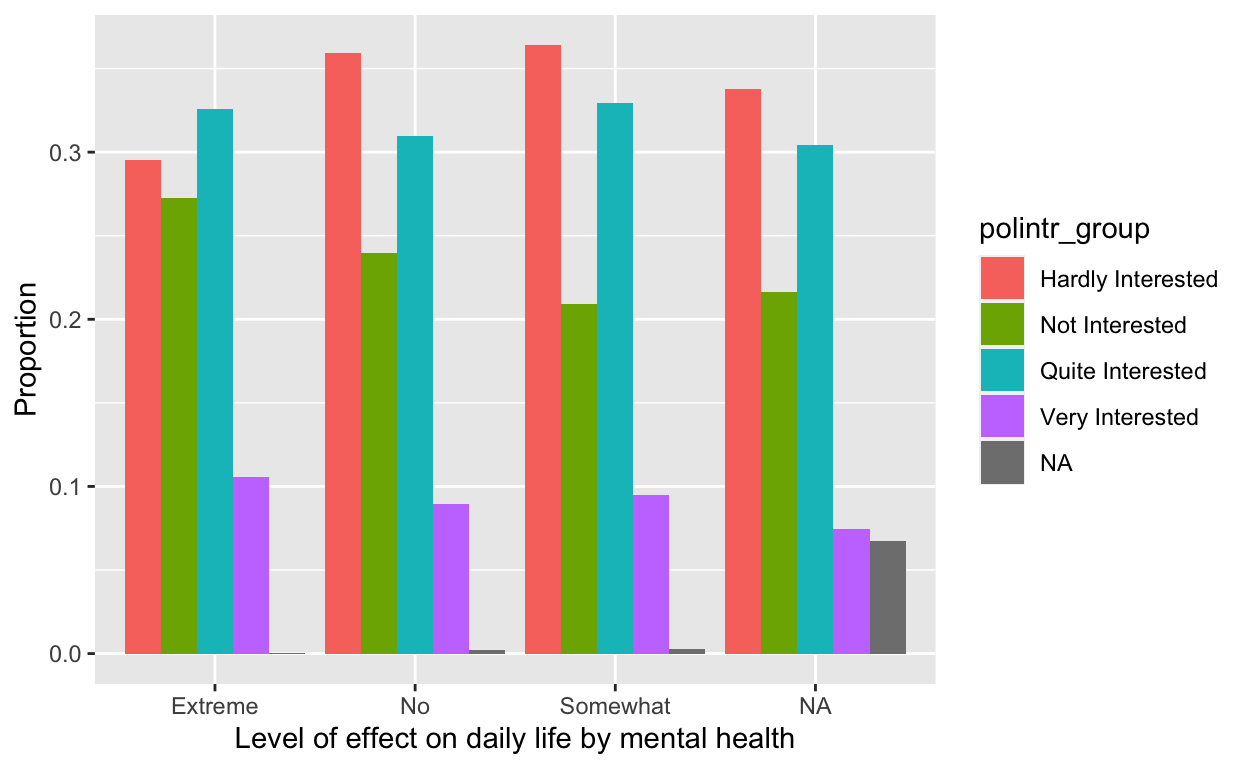
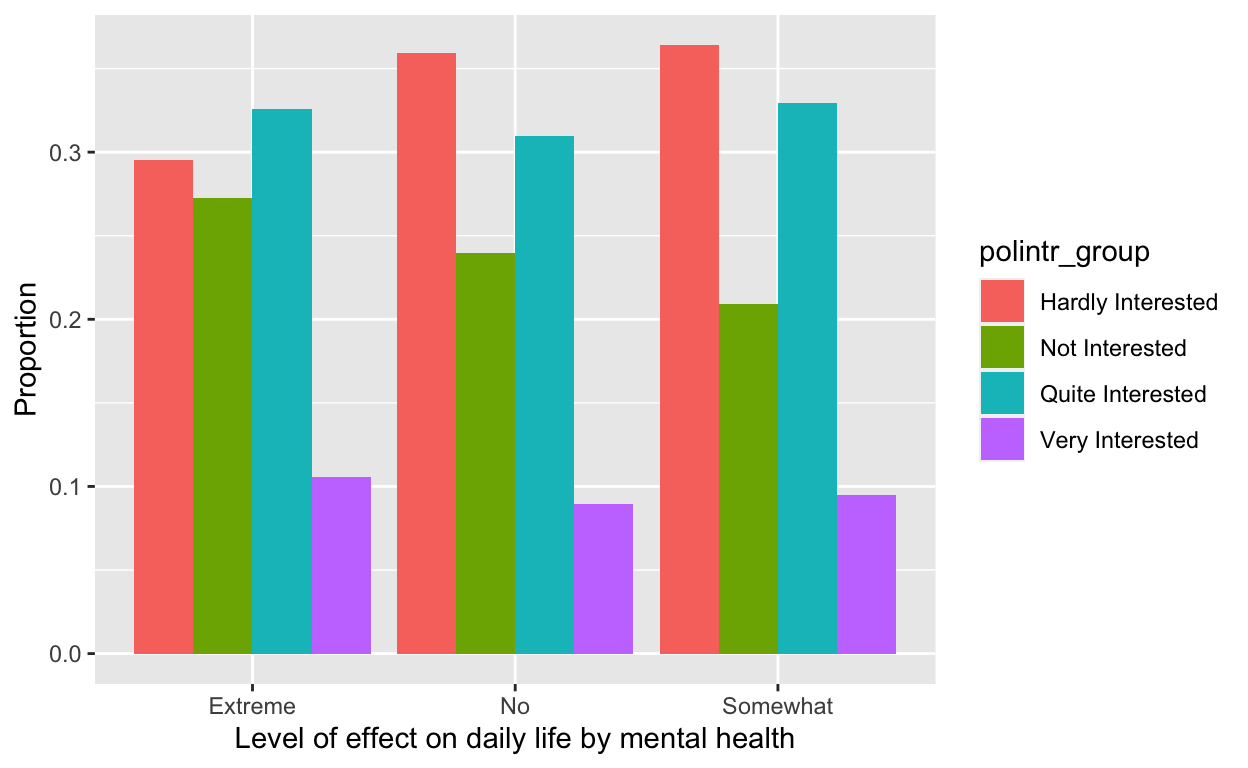
milestone 4

diff --git a/index.html b/index.html
@@ -1521,7 +1521,7 @@ code span.wa { color: #5e5e5e; font-style: italic; } /* Warning */
 <p>I am interested in exploring data related to the correlation between mental health and civic participation. It would be interesting to know how the prevalence of mental disorders and accessibility of mental health treatment in a community relates to the community members’ levels of civic engagement. Some examples of civic engagement may include participation in local/state/federal voting, competitiveness of elections, protests, town meetings, and more. There have been many data scientists that look at the relationship between race, age, profession, income, and more with civic participation. There appears to be less research, however, for those with mental disorders.</p>
 <h2 id="milestone-2-proposal">Milestone 2 Proposal</h2>
 <p>Do increasingly negative mental health statuses among a community reduce civic engagement? A negative mental health status can include a lack of mental health treatment, high rates of mental illnesses, general unhappiness, how concerned one is with climate change, and more. When a person is feeling unhappy, anxious, or frustrated, they are less concerned about the community and the long term future as they are preoccupied with negative personal thoughts. Hence, they are less likely to be civically engaged and partake in activities such as voting, protesting, and more. I hypothesize that the general happiness levels of individuals are contagious in a community, resulting in a pattern of changed civic participation. My data comes from the European Social Survey round 10 data from 2020. I am still deciding on which explanatory variables to use as I am interested in the variables: stflife (how satisfied with life as a whole), stfhlth (state of health services), happy (how happy are you), and hlthhmp (hampered in daily activities due to mental problem). Most of these variables are on a scale of 1-10, thus we can calculate the center distribution of these numbers based on country to create categories. My outcome variables of interest are polintr(how interested in politics), vote (voted in last national election), sgnptit (signed petition in last 12 months), and more. There are quite a few relevant variables that showcase one’s civic engagement. Polintr is measured on a scale of 1-4, whereas vote and sgnptit are binary with 1 meaning yes and 2 meaning no. If I am able to observe that less people are interested in politics or less likely to vote/sign petitions in countries where general happiness and mental is lower, I will be able to support my hypothesis. There should be a positive, direct correlation between these variables.</p>
-<p>##Milestone 3</p>
+<p>##Milestone 3 Graph</p>
 <div class="layout-chunk" data-layout="l-body">
 <div class="sourceCode">
 <pre class="sourceCode r"><code class="sourceCode r"><span><span class='kw'><a href='https://rdrr.io/r/base/library.html'>library</a></span><span class='op'>(</span><span class='va'><a href='https://tidyverse.tidyverse.org'>tidyverse</a></span><span class='op'>)</span></span>
@@ -1542,7 +1542,8 @@ code span.wa { color: #5e5e5e; font-style: italic; } /* Warning */
 <span>    <span class='va'>hlthhmp</span> <span class='op'>==</span> <span class='fl'>3</span> <span class='op'>~</span> <span class='st'>"No"</span><span class='op'>)</span><span class='op'>)</span> <span class='op'>|&gt;</span> </span>
 <span>  <span class='fu'><a href='https://dplyr.tidyverse.org/reference/group_by.html'>group_by</a></span><span class='op'>(</span><span class='va'>hamper_group</span>, <span class='va'>polintr_group</span><span class='op'>)</span> <span class='op'>|&gt;</span></span>
 <span>  <span class='fu'><a href='https://dplyr.tidyverse.org/reference/summarise.html'>summarize</a></span><span class='op'>(</span>n <span class='op'>=</span> <span class='fu'><a href='https://dplyr.tidyverse.org/reference/context.html'>n</a></span><span class='op'>(</span><span class='op'>)</span><span class='op'>)</span> <span class='op'>|&gt;</span></span>
-<span>  <span class='fu'><a href='https://dplyr.tidyverse.org/reference/mutate.html'>mutate</a></span><span class='op'>(</span>prop <span class='op'>=</span> <span class='va'>n</span> <span class='op'>/</span> <span class='fu'><a href='https://rdrr.io/r/base/sum.html'>sum</a></span><span class='op'>(</span><span class='va'>n</span><span class='op'>)</span><span class='op'>)</span></span>
+<span>  <span class='fu'><a href='https://dplyr.tidyverse.org/reference/mutate.html'>mutate</a></span><span class='op'>(</span>prop <span class='op'>=</span> <span class='va'>n</span> <span class='op'>/</span> <span class='fu'><a href='https://rdrr.io/r/base/sum.html'>sum</a></span><span class='op'>(</span><span class='va'>n</span><span class='op'>)</span><span class='op'>)</span> <span class='op'>|&gt;</span></span>
+<span>  <span class='fu'><a href='https://rdrr.io/r/stats/na.fail.html'>na.omit</a></span><span class='op'>(</span><span class='va'>proportion</span><span class='op'>)</span></span>
 <span></span>
 <span><span class='va'>plot</span> <span class='op'>&lt;-</span> <span class='va'>proportion</span> <span class='op'>|&gt;</span></span>
 <span>  <span class='fu'><a href='https://ggplot2.tidyverse.org/reference/ggplot.html'>ggplot</a></span><span class='op'>(</span><span class='fu'><a href='https://ggplot2.tidyverse.org/reference/aes.html'>aes</a></span><span class='op'>(</span>x <span class='op'>=</span> <span class='va'>hamper_group</span>, y <span class='op'>=</span> <span class='va'>prop</span>, fill <span class='op'>=</span> <span class='va'>polintr_group</span><span class='op'>)</span><span class='op'>)</span> <span class='op'>+</span> </span>
@@ -1553,7 +1554,25 @@ code span.wa { color: #5e5e5e; font-style: italic; } /* Warning */
 </div>
 <p><img src="index_files/figure-html5/unnamed-chunk-1-1.png" width="624" /></p>
 </div>
-<div class="sourceCode" id="cb1"><pre class="sourceCode r distill-force-highlighting-css"><code class="sourceCode r"></code></pre></div>
+<h2 id="milestone-4-visualization">Milestone 4 Visualization</h2>
+<div class="layout-chunk" data-layout="l-body">
+<div class="sourceCode">
+<pre class="sourceCode r"><code class="sourceCode r"><span><span class='va'>visual</span> <span class='op'>&lt;-</span> <span class='va'>proportion</span> <span class='op'>|&gt;</span></span>
+<span>  <span class='fu'><a href='https://dplyr.tidyverse.org/reference/select.html'>select</a></span><span class='op'>(</span><span class='op'>-</span><span class='va'>n</span><span class='op'>)</span> <span class='op'>|&gt;</span></span>
+<span>  <span class='fu'><a href='https://tidyr.tidyverse.org/reference/pivot_wider.html'>pivot_wider</a></span><span class='op'>(</span>names_from <span class='op'>=</span> <span class='va'>hamper_group</span>, values_from <span class='op'>=</span> <span class='va'>prop</span><span class='op'>)</span></span>
+<span></span>
+<span><span class='va'>visual</span></span></code></pre>
+</div>
+<pre><code># A tibble: 4 × 4
+  polintr_group     Extreme     No Somewhat
+  &lt;chr&gt;               &lt;dbl&gt;  &lt;dbl&gt;    &lt;dbl&gt;
+1 Hardly Interested   0.295 0.359    0.364 
+2 Not Interested      0.272 0.240    0.209 
+3 Quite Interested    0.326 0.310    0.330 
+4 Very Interested     0.106 0.0892   0.0947</code></pre>
+</div>
+<p>A larger portion of individuals whose daily lives are extremely affected by their mental health are quite or very interested in politics compared to the group of individuals who are not affected by their mental health. Conversely, a smaller proportion of the extremely affected group reported being hardly interested than both the group whose daily lives were not affected and only somewhat affected by mental health concerns. It appears that those with mental health difficulties are more likely to be on the extremes. This may be because they believe politics either is able to or totally unable to address greater social and political issues that are affecting their mental healths.</p>
+<div class="sourceCode" id="cb2"><pre class="sourceCode r distill-force-highlighting-css"><code class="sourceCode r"></code></pre></div>
 <!--radix_placeholder_article_footer-->
 <!--/radix_placeholder_article_footer-->
 </div>
